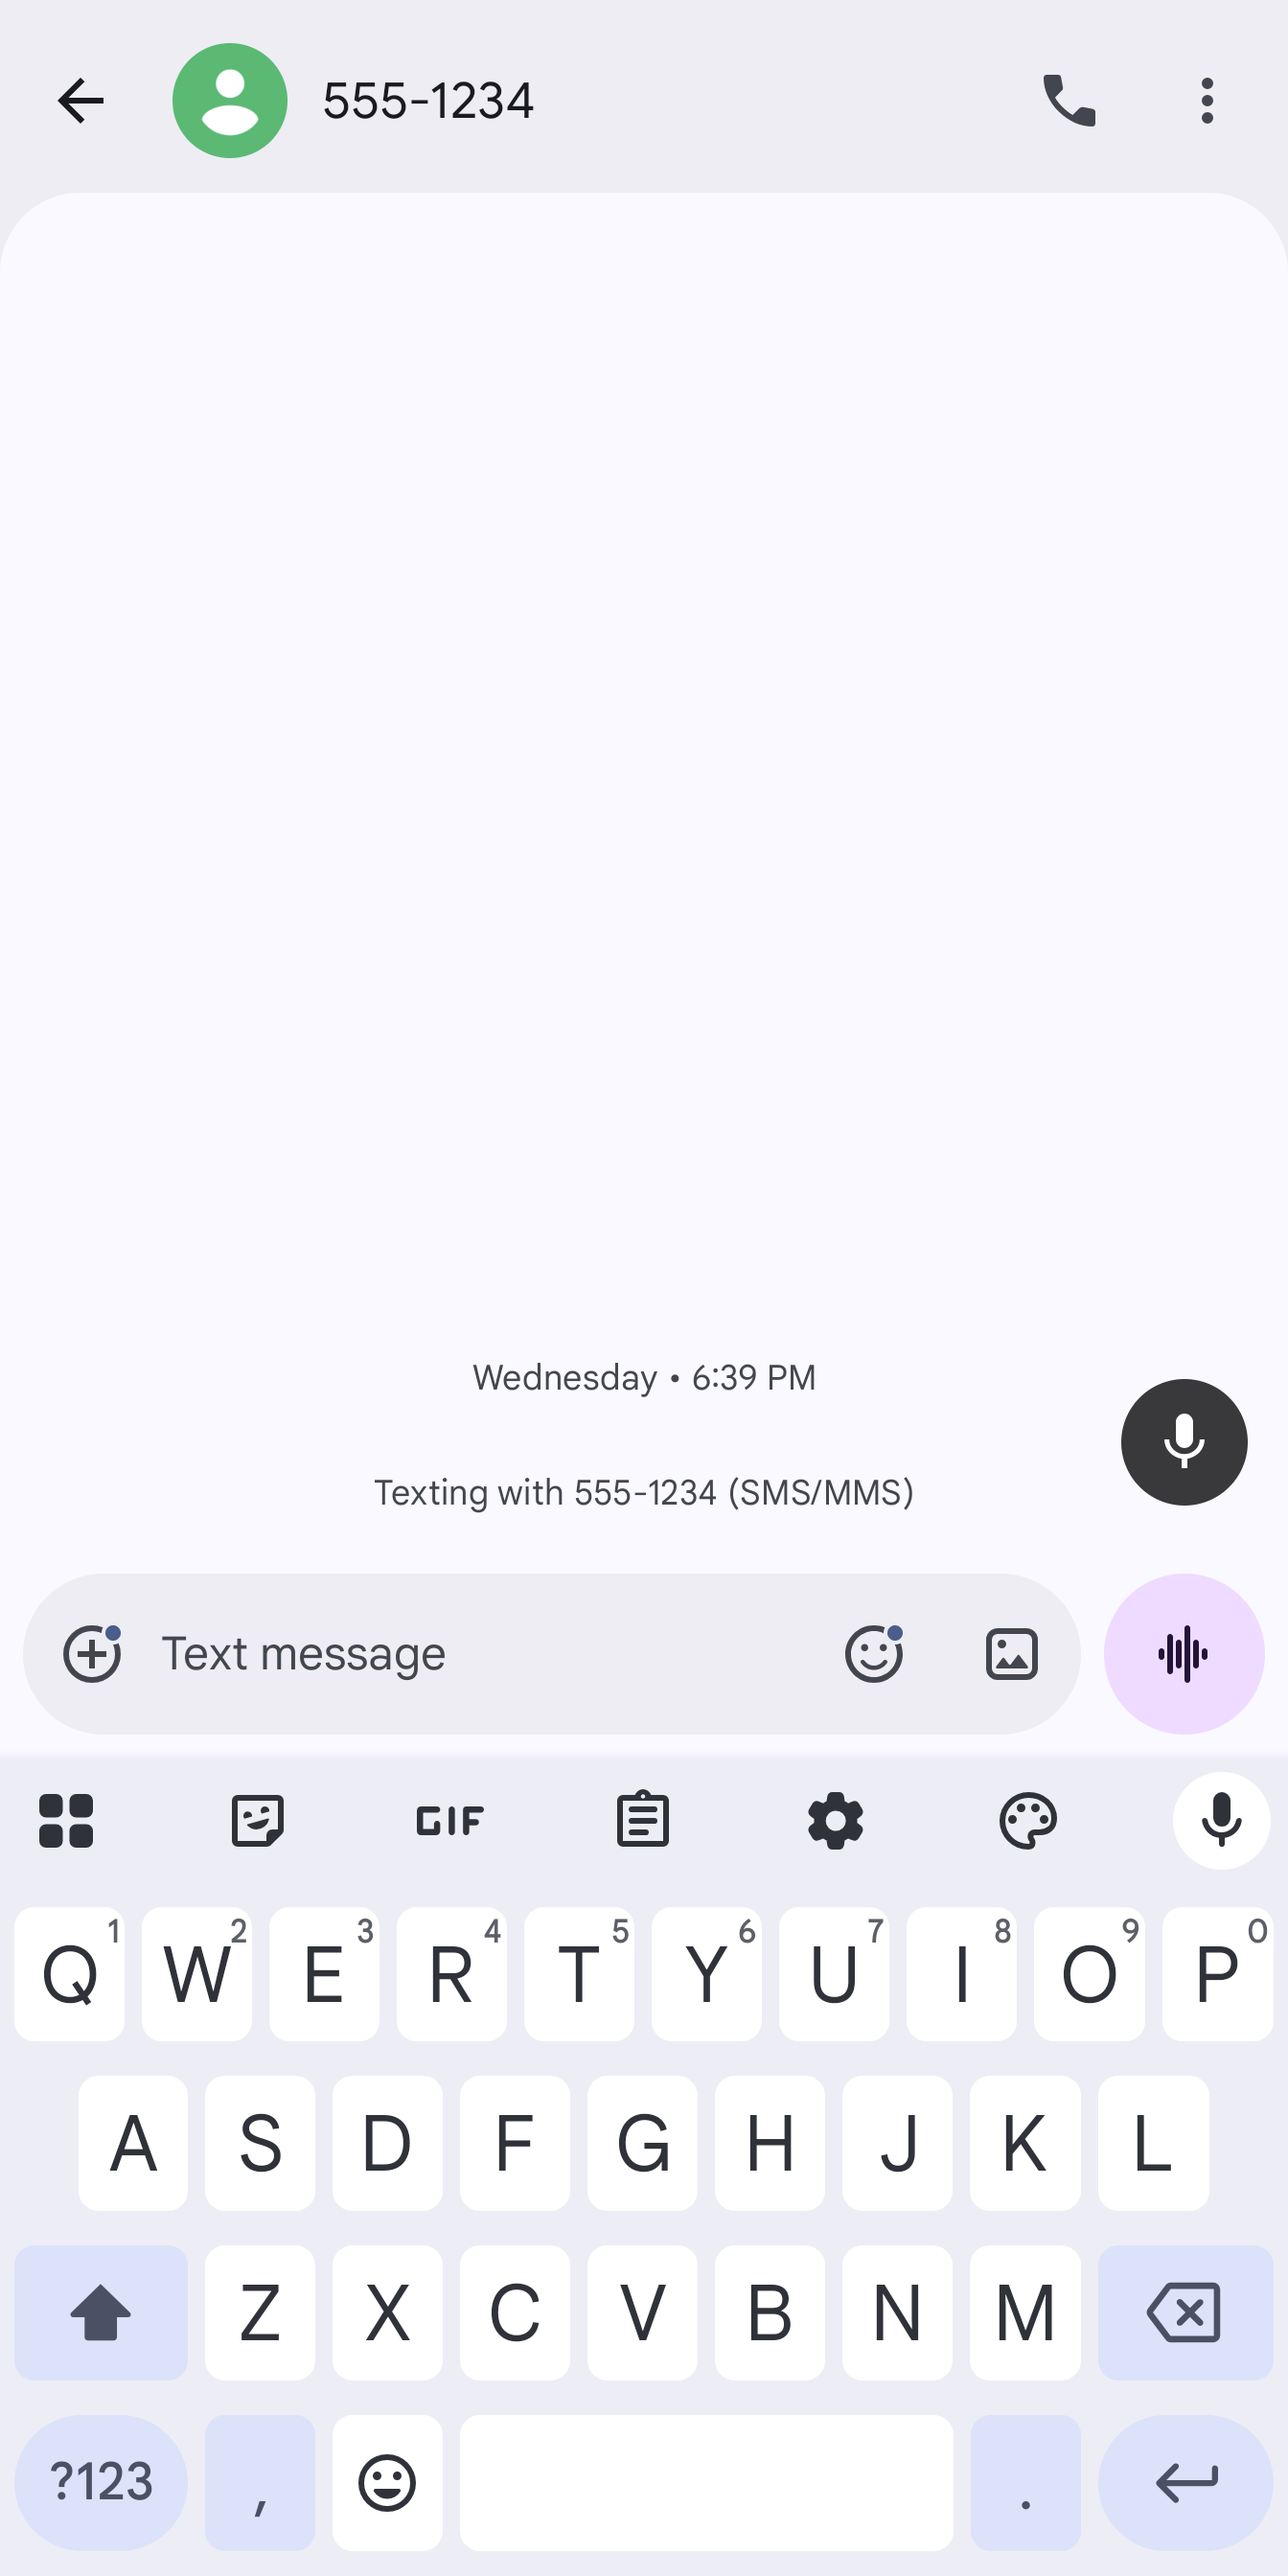
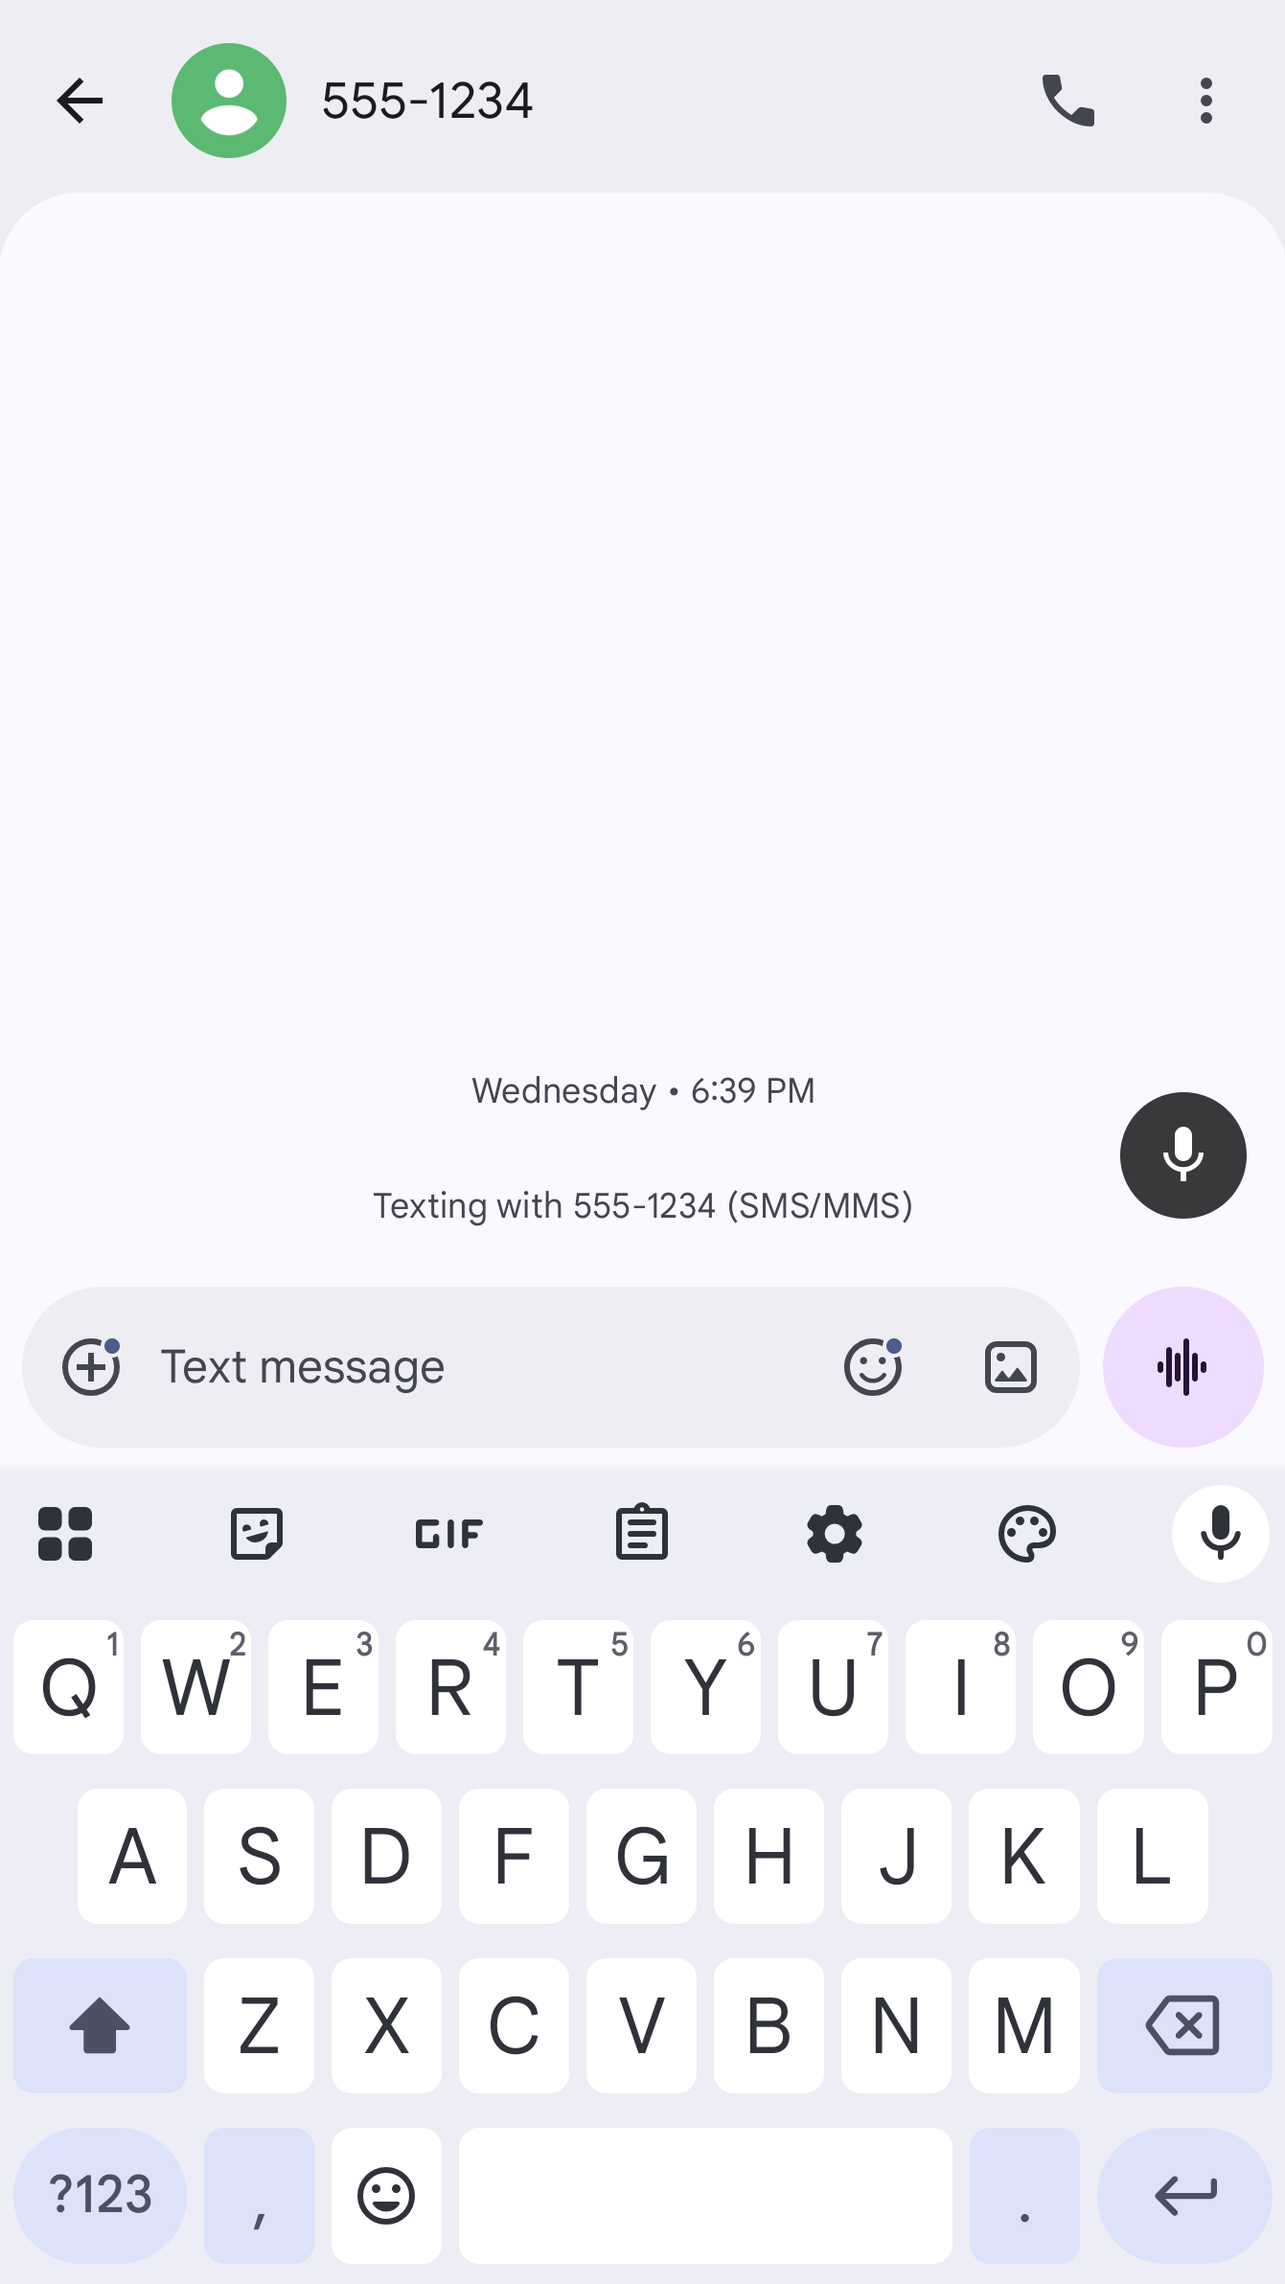
Play store listing drafted; screenshots resized to 9:16

diff --git a/docs/play-store/launch-checklist.md b/docs/play-store/launch-checklist.md
@@ -6,10 +6,11 @@ Agreed scope, November 10, 2026: prepare launch assets and forms, publish the pr
 
 - [ ] Complete developer-account registration, payment and identity/device verification as required by the actual Play Console account.
 - [x] Account made and $25 paid; ID uploaded and website https://nuchemweber.com/wordforword/ verified (2026-11-14).
-- [x] WordForWordPlay.aab built from 0.8.6 (versionCode 33) with play-bundle.sh, 2026-11-15. Two phone screenshots in docs/play-store/screenshots/ (emulator, cropped to Play's 2:1 limit).
+- [x] WordForWordPlay.aab built from 0.8.6 (versionCode 33) with play-bundle.sh, 2026-11-15. Two phone screenshots in docs/play-store/screenshots/ (emulator; 2026-11-17 resized to Play's 9:16: 1341x2384 and 1512x2688).
 - [x] Device check done in the Play Console app (2026-11-15).
 - [x] ID approved and contact phone verified (2026-11-16). After entering the text code, press Save changes or it is lost.
 - [x] App ID com.isaacweber.wordforword: Create app said "already in use" because the GitHub builds have installs. Registered it under Android developer verification with the GitHub signing key (the PC debug key, SHA-256 90:79:A6:...:BE:1A) and a proof APK: a release build with assets/adi-registration.properties holding the console snippet, signed with that key. Registered 2026-11-17. App created 2026-11-17 (app id 4974807179218483861): Word for Word, en-US, App, Free; the three declarations accepted with Isaac's OK.
+- [x] Default store listing saved as draft (2026-11-17): name, short and full description from listing.md, icon, feature graphic, 2 phone screenshots.
 - Trader status: Non-trader (Isaac, 2026-11-15: "nobody is allowed to see my address"). Google lets a non-trader charge only if the app is not offered in the EEA or the UK at all, so exclude those countries before any paid feature. A trader's phone number and address are shown to everyone from March 1, 2027.
 - [x] Fix inaccurate in-app Accessibility disclosure (Play build, 2026-11-11). Keep its consent separate from other sensitive-data disclosures.
 - [x] (Play build, 2026-11-11; Isaac: only what Play requires, so no cloud-dictation dialog and no settings row) Add informed consent before the optional Yiddish route uploads and retains recordings and corrected text for training.
